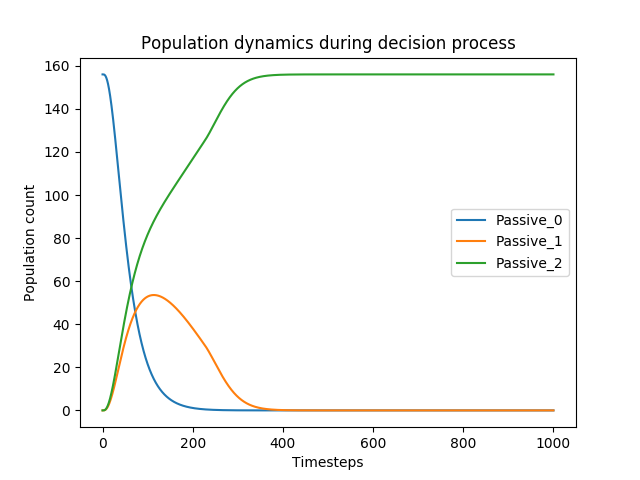
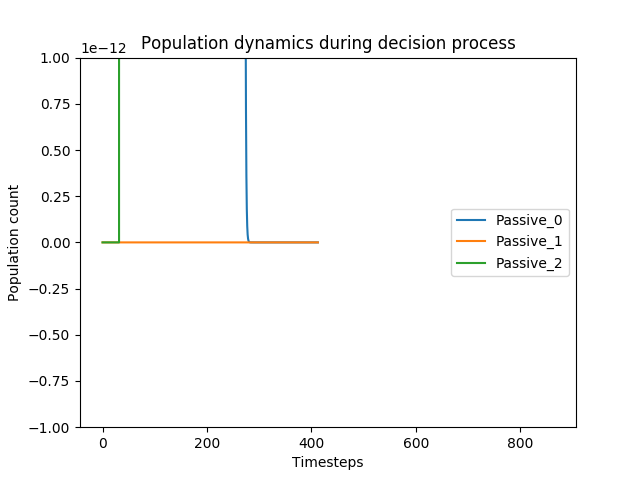
Adds additional plots

diff --git a/saldyt_2018/alternative_switching.py b/saldyt_2018/alternative_switching.py
@@ -11,23 +11,6 @@ import numpy as np
 
 from collections import defaultdict
 
-# plt.rcParams.update({
-#     "lines.color": "white",
-#     "patch.edgecolor": "white",
-#     "text.color": "black",
-#     "axes.facecolor": "white",
-#     "axes.edgecolor": "lightgray",
-#     "axes.labelcolor": "white",
-#     "xtick.color": "white",
-#     "ytick.color": "white",
-#     "grid.color": "lightgray",
-#     "figure.facecolor": "black",
-#     "figure.edgecolor": "black",
-#     "savefig.facecolor": "black",
-#     "savefig.edgecolor": "black"})
-
-# Populations: [S, A, R, P]
-
 T = 10
 M = 3
 N = 208  # SD 99
@@ -43,7 +26,7 @@ rho[(2, 1)] = 0.008
 # SearchC(L) = 0.018
 # SearchC(C) = 0.0044
 
-alpha = [0.0, 0.015, 0.02]
+#alpha = [0.0, 0.015, 0.02]
 phi = [0.0, 0.13, 0.13]
 sigmaA  = [0.0, 0.0195, 0.0195]
 sigmaL  = [0.0, 0.018,  0.018]
@@ -54,100 +37,164 @@ sigmaC  = [0.0, 0.044,  0.044]
 lambdas = [0.0, 0.033, 0.033]
 tau     = 0.001
 
-def unpack(Populations, nestCount):
-    S, *rest = Populations
-    unpacked = [S, []]
-    for i, item in enumerate(rest):
-        if i > 0 and i % nestCount == 0:
-            unpacked.append([])
-        unpacked[-1].append(item)
-    return unpacked
+def simulate(N, alpha, phi, iterations=1000, plot=False, quorum_convergence=False):
+    def unpack(Populations, nestCount):
+        S, *rest = Populations
+        unpacked = [S, []]
+        for i, item in enumerate(rest):
+            if i > 0 and i % nestCount == 0:
+                unpacked.append([])
+            unpacked[-1].append(item)
+        return unpacked
 
-def pack(S=0, A=[], L=[], C=[], P=[]):
-    return [S, *A, *L, *C, *P]
+    def pack(S=0, A=[], L=[], C=[], P=[]):
+        return [S, *A, *L, *C, *P]
 
-def Q(Population, i):
-    S, A, L, C, P = unpack(Population, M)
-    return int(A[i] + L[i] + C[i] >= T)
-    #return int(A[i] + L[i] + C[i] + P[i] > T)
+    def Q(Population, i):
+        S, A, L, C, P = unpack(Population, M)
+        return int(L[i] + C[i] >= T)
+        return int(A[i] + L[i] + C[i] >= T)
+        #return int(A[i] + L[i] + C[i] + P[i] > T)
 
-def dS(Population):
-    S, A, L, C, P = unpack(Population, M)
-    return (-sum(phi[i] * S + lambdas[i] * L[i] * S
-                 - tau * C[i] * S
-                 for i in range(M)))
+    def dS(Population):
+        S, A, L, C, P = unpack(Population, M)
+        return (-sum(phi[i] * S + lambdas[i] * L[i] * S
+                     - tau * C[i] * S
+                     for i in range(M)))
 
-def dAi(Population, i):
-    S, A, L, C, P = unpack(Population, M)
-    return (phi[i] * S
-            + lambdas[i] * L[i] * S
+    def dAi(Population, i):
+        S, A, L, C, P = unpack(Population, M)
+        return (phi[i] * S
+                + lambdas[i] * L[i] * S
 
-            + sum(tau * (C[i] * (S +
-                                 L[j] +
-                                 C[j] +
-                                 A[j])
-                       - C[j] * A[i])
-                  for j in range(len(A)) if j != i)
-            - alpha[i]*A[i]
-            )
+                + sum(tau * (C[i] * (S +
+                                     L[j] +
+                                     C[j] +
+                                     A[j])
+                           - C[j] * A[i])
+                      for j in range(len(A)) if j != i)
+                - alpha[i]*A[i]
+                )
 
-def dLi(Population, i):
-    S, A, L, C, P = unpack(Population, M)
-    return (- sigmaL[i] * L[i] +
-           (alpha[i] * A[i]
-           - Q(Population, i)*L[i]
-           - sum(tau*C[j]*L[i] for j in range(M) if j != i)
-           ))
+    def dLi(Population, i):
+        S, A, L, C, P = unpack(Population, M)
+        return (- sigmaL[i] * L[i] +
+               (alpha[i] * A[i]
+               - Q(Population, i)*L[i]
+               - sum(tau*C[j]*L[i] for j in range(M) if j != i)
+               ))
 
-def dCi(Population, i):
-    S, A, L, C, P = unpack(Population, M)
-    return (Q(Population, i) * L[i] #- sigmaC[i] * C[i] -
-               - sum(tau*C[j]*C[i] for j in range(M) if j != i)
-               )
+    def dCi(Population, i):
+        S, A, L, C, P = unpack(Population, M)
+        return (Q(Population, i) * L[i] #- sigmaC[i] * C[i] -
+                   - sum(tau*C[j]*C[i] for j in range(M) if j != i)
+                   )
 
-def dPi(Population, i):
-    S, A, L, C, P = unpack(Population, M)
-    return sum(tau*P[j]*C[i]
-               - tau*P[i]*C[j]
-               for j in range(M) if j != i)
+    def dPi(Population, i):
+        S, A, L, C, P = unpack(Population, M)
+        return sum(tau*P[j]*C[i]
+                   - tau*P[i]*C[j]
+                   for j in range(M) if j != i)
 
-def dPopulation_dt(Population, t):
-    result =  [ dS(Population)]
-    result += [dAi(Population, i) for i in range(M)]
-    result += [dLi(Population, i) for i in range(M)]
-    result += [dCi(Population, i) for i in range(M)]
-    result += [dPi(Population, i) for i in range(M)]
-    return result
+    def dPopulation_dt(Population, t):
+        result =  [ dS(Population)]
+        result += [dAi(Population, i) for i in range(M)]
+        result += [dLi(Population, i) for i in range(M)]
+        result += [dCi(Population, i) for i in range(M)]
+        result += [dPi(Population, i) for i in range(M)]
+        return result
 
-Population0 = pack(S=N*p,
-                   A=[0, 0, 0],
-                   L=[0, 0, 0],
-                   C=[0, 0, 0],
-                   P=[N*(1-p), 0, 0])
+    Population0 = pack(S=N*p,
+                       A=[0, 0, 0],
+                       L=[0, 0, 0],
+                       C=[0, 0, 0],
+                       P=[N*(1-p), 0, 0])
 
-N = 1000
-intersteps = 10
-ts = np.linspace(0, N, N * intersteps)
-Ps = odeint(dPopulation_dt, Population0, ts)
-for do_passive in [True, False]:
-    for i in range(1 + M * 4):
-        if i == 0:
-            label = 'Searching'
-        else:
-            label = ['Assessing', 'Leading', 'Carrying', 'Passive'][(i - 1) // M]
-            label += '_' + str((i - 1) % M)
-        pop = Ps[:,i]
-        if do_passive:
-            if 'Passive' in label:
-                plt.plot(ts, pop, label=label)
-        else:
-            if 'Passive' not in label:
-                plt.plot(ts, pop, label=label)
+    converged = iterations
+    intersteps = 10
+    ts = np.linspace(0, iterations, iterations * intersteps)
+    Ps = odeint(dPopulation_dt, Population0, ts)
+    for do_passive in [True, False]:
+        for i in range(1 + M * 4):
+            if i == 0:
+                label = 'Searching'
+            else:
+                label = ['Assessing', 'Leading', 'Carrying', 'Passive'][(i - 1) // M]
+                index = (i - 1) % M
+                label += '_' + str(index)
+            pop = Ps[:,i]
+            if quorum_convergence:
+                converge_label = 'Carrying'
+                converge_condition = lambda x : x > 0
+            else:
+                converge_label = 'Passive'
+                converge_condition = lambda x : x > N*(1-p)*.95
+            if converge_label in label and index > 0:
+                early_converged = [(i, x) for i, x in enumerate(pop) if converge_condition(x)]
+                if early_converged:
+                    converged = min(early_converged, key=lambda t : t[0])[0] / intersteps
+            if do_passive:
+                if 'Passive' in label and plot:
+                    plt.plot(ts, pop, label=label)
+            else:
+                if 'Passive' not in label and plot:
+                    plt.plot(ts, pop, label=label)
+        if plot:
+            plt.legend(loc='center right', bbox_to_anchor=(1, 0.5))
+            plt.xlabel('Timesteps')
+            plt.ylabel('Population count')
+            plt.title('Population dynamics during decision process')
+            filename = ('passive' if do_passive else 'active') + '_populations_saldyt_2018_alt.png'
+            plt.savefig(filename)
+            plt.show()
+    return converged
 
-    plt.legend(loc='center right', bbox_to_anchor=(1, 0.5))
-    plt.xlabel('Timesteps')
-    plt.ylabel('Population count')
-    plt.title('Population dynamics during decision process')
-    filename = ('passive' if do_passive else 'active') + '_populations_saldyt_2018_alt.png'
-    plt.savefig(filename)
-    plt.show()
+#print(simulate(True, True))
+
+data = defaultdict(list)
+
+Ns = [208]
+#alphas = np.linspace(0.0, 0.1, 50)
+#alphas = np.linspace(0.0, 1.0, 50)
+alphas = np.linspace(0.0, 1.0, 31)
+#alphas = [0.015]
+betas  = alphas
+#betas  = [0.02]
+phis   = [0.013]
+#phis   = np.linspace(0.0, 0.1, 21)
+
+#simulate(208, [0.0, 0.015, 0.02, 0.03], [0.0, 0.013, 0.013, 0.013], True, iterations=5000)
+#simulate(1000, [0.0, 0.015, 0.015, 0.015], [0.0, 0.013, 0.013, 0.013], True, iterations=1000)
+#simulate(1000, [0.0, 0.3, 0.25, 0.9], [0.0, 0.1, 0.1, 0.05], True, iterations=1000)
+for N in Ns:
+    for alpha in alphas:
+        for beta in betas:
+            for phi_a in phis:
+                for phi_b in phis:
+                    add = lambda k, v : data[k].append(round(v, 4))
+                    data['N'].append(N)
+                    add('alpha', alpha)
+                    add('beta', beta)
+                    add('phi_a', phi_a)
+                    add('phi_b', phi_b)
+                    weights = [0.0, alpha, beta]
+                    phi     = [0.0, phi_a, phi_b]
+                    data['iterations'].append(simulate(N, weights, phi, iterations=400))
+
+#print(data)
+original_data = pandas.DataFrame(data)
+print(original_data)
+#data = original_data.pivot_table(values='iterations', index='beta', columns=['alpha'])
+#sns.heatmap(data, yticklabels=True, xticklabels=True)
+#plt.title('Convergence times for nest quality and threshold')
+#plt.xlabel('Alpha')
+#plt.ylabel('Beta')
+#plt.savefig('agent_convergence_times.png')
+#plt.show()
+data = original_data.pivot_table(values='iterations', index='alpha', columns=['beta'])
+sns.heatmap(data)#, yticklabels=True)
+plt.title('Convergence times for nest quality and threshold')
+plt.xlabel('alpha')
+plt.ylabel('beta')
+plt.savefig('quality_ode_convergence_times.png')
+plt.show()
